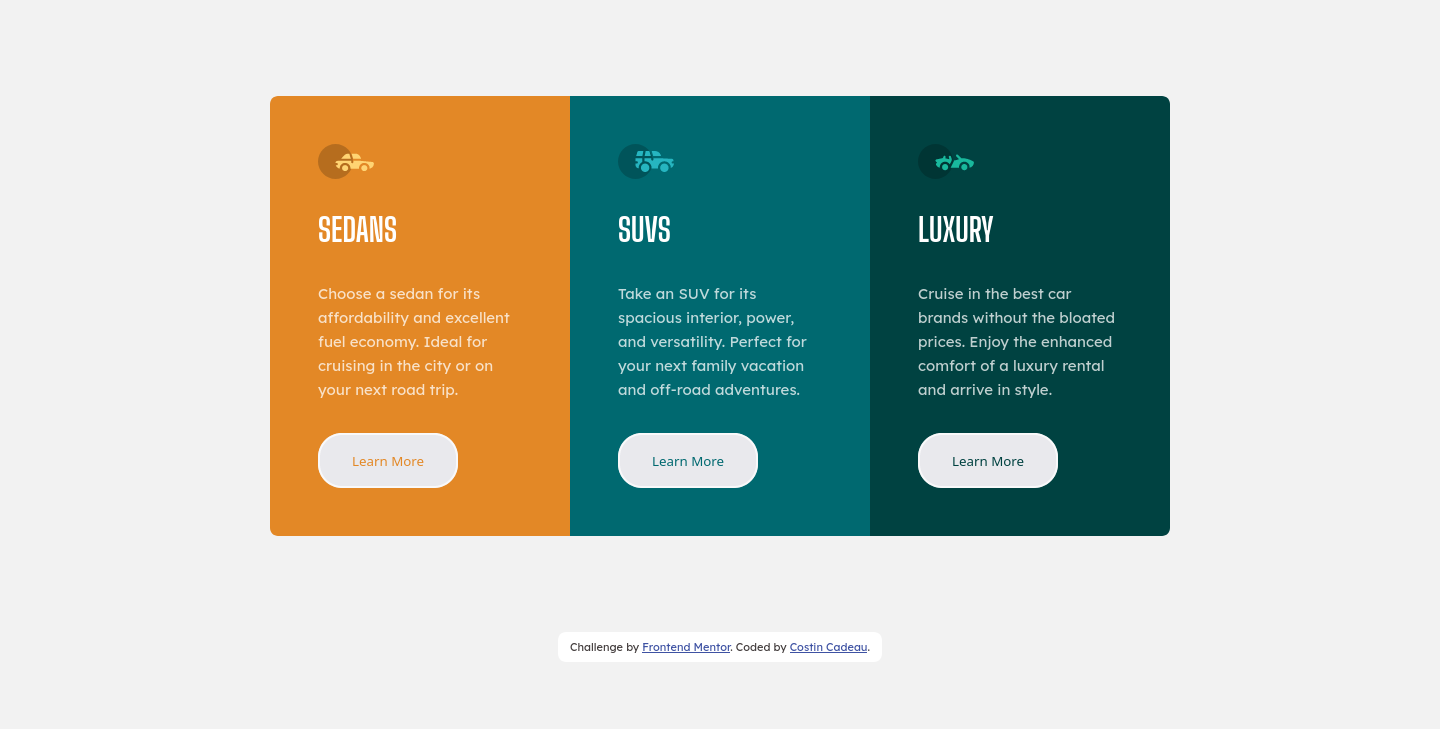
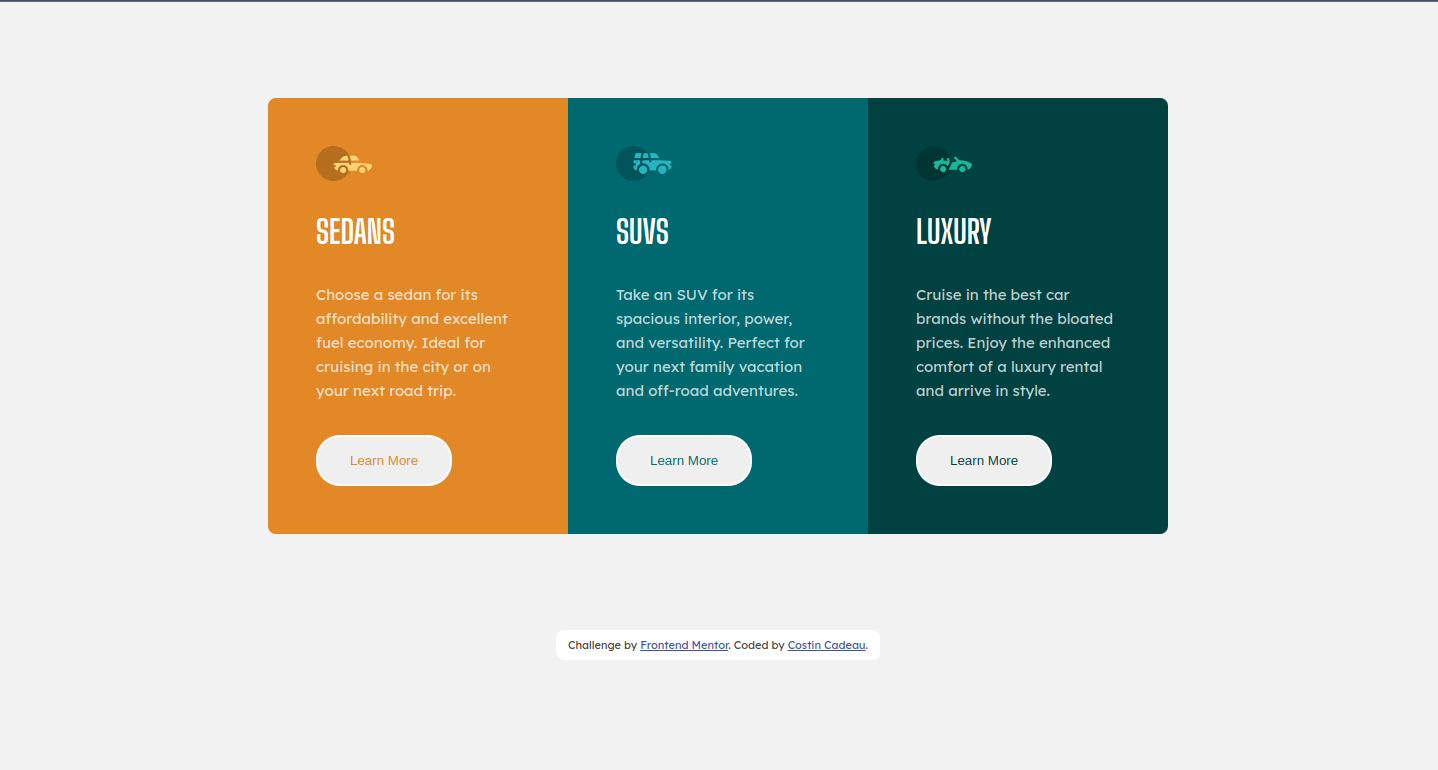
modification + add new screenshots in README

diff --git a/style.css b/style.css
@@ -105,6 +105,7 @@ body {
 /* ==== REFERENCE STYLE ==== */
 .attribution {
     margin-top: 96px;
+    margin-bottom: 32px;
     margin-inline: auto;
     padding-block: 8px;
     padding-inline: 12px;

diff --git a/README.md b/README.md
@@ -27,7 +27,13 @@ Users should be able to:
 #### Desktop version :
 ![](./screenshots/desktop1440.png)
 
+#### Desktop version - Hovering :
+![](./screenshots/desktop1440hover.png)
+
 #### Mobile version :
+![](./screenshots/mobile375.png)
+
+#### Mobile version - Hovering :
 ![](./screenshots/mobile375.png)
 
 
